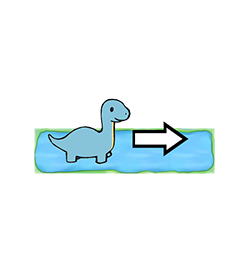
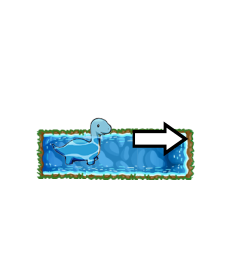
new river tutorials

Changed region(s): [[0.112, 0.3707, 0.868, 0.7104]]

diff --git a/core/src/tiktaalik/trino/GameController.java b/core/src/tiktaalik/trino/GameController.java
@@ -251,6 +251,7 @@ public class GameController implements ContactListener, Screen {
     private static final String CORNER_TOP_LEFT = "trino/corner_top_left.png";
     private static final String CORNER_TOP_RIGHT = "trino/corner_top_right.png";
     private static final String LONG_VINE_FILE = "trino/vine_long.png";
+    private static final String WATER_SHINE_FILE = "trino/watershine.png";
 
 	// Tutorial menus
 	private static final String TUT_ONE_A = "tutorial/move1.png";
@@ -772,6 +773,8 @@ public class GameController implements ContactListener, Screen {
 		assets.add(CORNER_TOP_RIGHT);
 		manager.load(LONG_VINE_FILE, Texture.class);
 		assets.add(LONG_VINE_FILE);
+        manager.load(WATER_SHINE_FILE, Texture.class);
+        assets.add(WATER_SHINE_FILE);
 		manager.load(TUT_ONE_A, Texture.class);
 		assets.add(TUT_ONE_A);
 		manager.load(TUT_ONE_B, Texture.class);
@@ -895,6 +898,7 @@ public class GameController implements ContactListener, Screen {
         textureDict.put("cornerTopLeft", createTexture(manager, CORNER_TOP_LEFT, false));
         textureDict.put("cornerTopRight", createTexture(manager, CORNER_TOP_RIGHT, false));
         textureDict.put("longVine", createTexture(manager, LONG_VINE_FILE, false));
+        textureDict.put("watershine", createTexture(manager, WATER_SHINE_FILE, false));
 		textureDict.put("boulder", createTexture(manager, BOULDER_FILE, false));
 		textureDict.put("victory", createTexture(manager, VICTORY_FILE, false));
 		textureDict.put("gameover", createTexture(manager, GAMEOVER_FILE, false));

diff --git a/core/src/tiktaalik/trino/Level.java b/core/src/tiktaalik/trino/Level.java
@@ -787,16 +787,20 @@ public class Level {
                 // Add rocks
                 if (((River) g).getRock() == null && ((River)g).getHasRockOnit()){
                     TextureRegion rock;
-                    int random = MathUtils.random(2);
+                    int random = MathUtils.random(5);
                     if (random == 0){
                         rock = textureDict.get("rock1");
                     }
                     else if (random == 1){
                         rock = textureDict.get("rock2");
                     }
-                    else {
+                    else if (random == 2) {
                         rock = textureDict.get("rock3");
                     }
+                    else {
+                        rock = textureDict.get("watershine");
+                    }
+
 
                     float minX = g.getX() - 0.3f;
                     float maxX = g.getX() + 0.3f;
